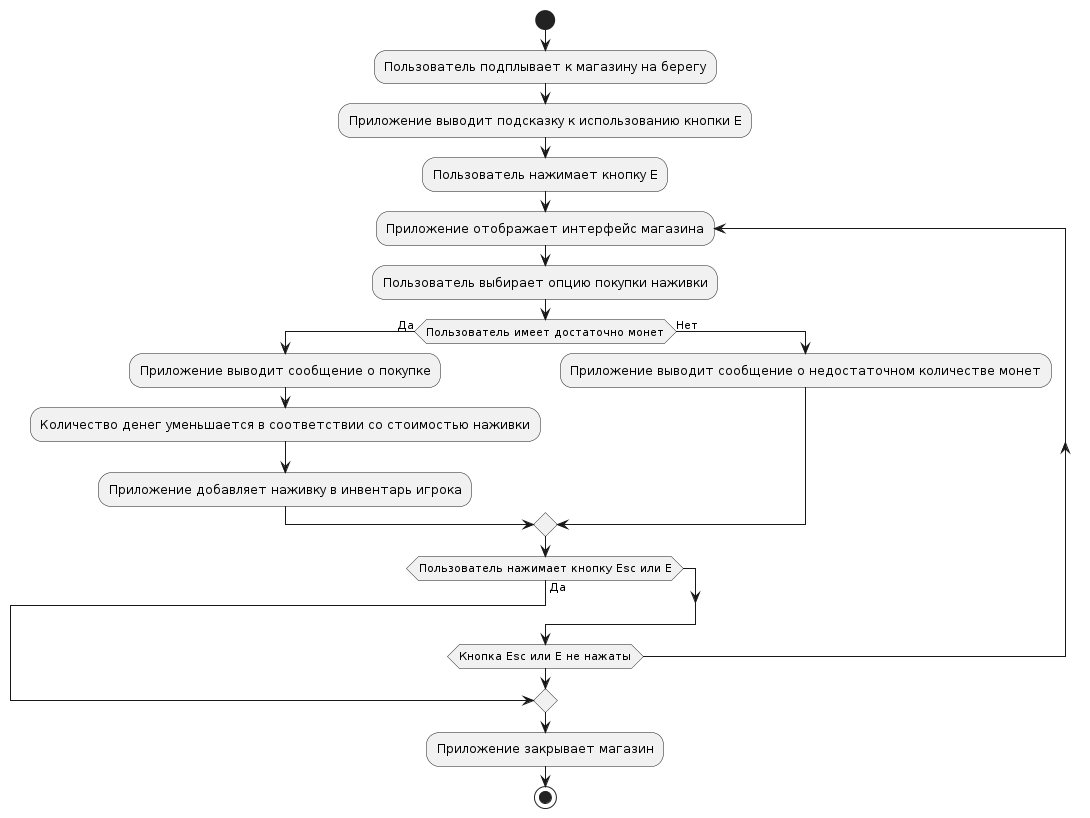
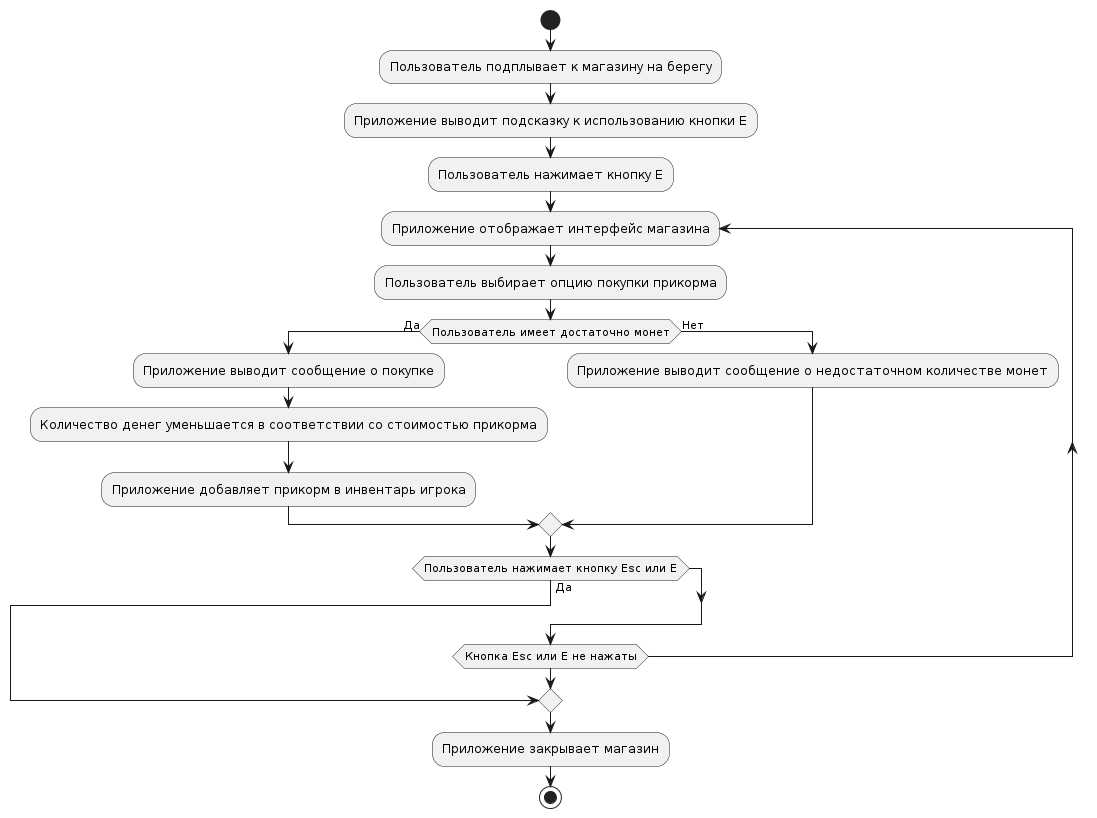
Made 5th task

diff --git a/docs/behavior.md b/docs/behavior.md
@@ -1,0 +1,98 @@
+# Поведенческие модели
+
+### Диаграммы состояний:
+
+#### Миниигра ловли рыбы
+
+* [Оффлайн файл](diagrams/behavior/fishing.puml)
+
+![Диаграмма состояний](diagrams/behavior/fishing.png)
+
+Эта диаграмма состояний представляет собой мини-игру по рыбной ловле в игре. Начальное состояние - "Миниигра ловли рыбы". Пользователь может взаимодействовать с процессом, выполняя определенные действия.
+
+Процесс начинается с состояния "Подплыть к рыбному месту", когда пользователь плывет к месту ловли рыбы. Нажатие кнопки E на клавиатуре приводит к переходу в состояние "Начало рыбалки", где пользователь начинает играть в мини-игру.
+
+В состоянии "Игровой процесс" пользователь ловит рыбу, удерживая левую кнопку мыши (ЛКМ). Если пользователь успешно удерживает ЛКМ в течение определенного времени, он переходит в состояние "Засечка". В состоянии "Засечка" пользователь должен продолжать удерживать ЛКМ, чтобы вытащить рыбу. Если пользователь отпустит ЛКМ раньше, он переходит в состояние "Поражение".
+
+Если пользователь успешно вытаскивает рыбу, он переходит в состояние "Победа". Если пользователь не может поймать рыбу, он переходит в состояние "Поражение".
+
+#### Продажа рыбы
+
+* [Оффлайн файл](diagrams/behavior/sellfish.puml)
+
+![Диаграмма состояний](diagrams/behavior/sellfish.png)
+
+Эта диаграмма состояний представляет собой процесс продажи рыбы в игре. Начальное состояние - "Продажа рыбы". Пользователь может взаимодействовать с процессом через подсказки, выбор рыбы и закрытие магазина.
+
+Процесс начинается с состояния "Вывести подсказку", когда к магазину подплывает пользователь. Нажатие кнопки E на клавиатуре приводит к переходу в состояние "Вывести интерфейс магазина", где пользователь может просмотреть доступные варианты. Выбор опции продажи рыбы приводит к переходу в состояние "Выбор рыбы".
+
+В состоянии "Выбор рыбы" пользователь может выбрать рыбу для продажи. Выбор рыбы приводит к переходу в состояние "Выбрать рыбу". В состоянии "Выбрать рыбу" отображается сообщение о продаже рыбы.
+
+После продажи рыбы пользователь переходит в состояние "Выбор рыбы", чтобы решить, продать ли еще одну рыбу. Если у пользователя больше нет рыбы для продажи, он переходит в состояние "Вывести интерфейс магазина".
+
+Из состояния "Вывести интерфейс магазина" можно также перейти в состояние "Закрыть магазин", нажав кнопку Esc на клавиатуре.
+
+#### Покупка улучшений
+
+* [Оффлайн файл](diagrams/behavior/buyupgrates.puml)
+
+![Диаграмма состояний](diagrams/behavior/buyupgrates.png)
+
+Эта диаграмма состояний представляет собой процесс покупки улучшений в игре. Начальное состояние - "Покупка улучшений". Пользователь может взаимодействовать с процессом через подсказки, выбор улучшений и закрытие магазина.
+
+Процесс начинается с состояния "Вывести подсказку", когда к магазину подплывает пользователь. Нажатие кнопки E на клавиатуре приводит к переходу в состояние "Вывести интерфейс магазина", где пользователь может просмотреть доступные варианты. Выбор опции улучшения приводит к переходу в состояние "Выбор улучшения".
+
+В состоянии "Выбор улучшения" пользователь может выбрать улучшение для лодки или удочки. Выбор опции приводит к переходу в соответствующее состояние, например, "Улучшение лодки" или "Улучшение удочки".
+
+Затем процесс переходит в состояние "Проверка денег", чтобы проверить, достаточно ли у пользователя денег для покупки улучшения. Если денег достаточно, процесс переходит в состояние "Улучшение", где улучшение приобретается и выводится сообщение. Если денег недостаточно, процесс переходит в состояние "Вывести сообщение об ошибке".
+
+Из состояния "Вывести интерфейс магазина" можно также перейти в состояние "Закрыть магазин", нажав кнопку Esc на клавиатуре.
+
+#### Покупка наживки
+
+* [Оффлайн файл](diagrams/behavior/buybait.puml)
+
+![Диаграмма состояний](diagrams/behavior/buybait.png)
+
+Эта диаграмма состояний представляет собой процесс покупки наживки в игре. Начальное состояние - "Покупка наживки". Пользователь может взаимодействовать с процессом через подсказки, покупки и закрытие магазина.
+
+Процесс начинается с состояния "Вывести подсказку", когда к магазину подплывает пользователь. Нажатие кнопки E на клавиатуре приводит к переходу в состояние "Вывести интерфейс магазина", где пользователь может просмотреть доступные варианты. Выбор опции покупки наживки приводит к переходу в состояние "Купить наживку".
+
+В состоянии "Купить наживку" сначала проверяется наличие достаточного количества денег для покупки наживки. Если денег достаточно, наживка покупается, и пользователь переходит в состояние "Вывести сообщение о покупке". Если денег недостаточно, пользователь переходит в состояние "Вывести сообщение об ошибке".
+
+Из состояния "Вывести интерфейс магазина" можно также перейти в состояние "Закрыть магазин", нажав кнопку Esc на клавиатуре.
+
+#### Покупка прикорма
+
+* [Оффлайн файл](diagrams/behavior/buylure.puml)
+
+![Диаграмма состояний](diagrams/behavior/buylure.png)
+
+Эта диаграмма состояний представляет собой процесс покупки прикорма в игре. Начальное состояние - "Покупка прикорма". Пользователь может взаимодействовать с процессом через подсказки, покупки и закрытие магазина.
+
+Процесс начинается с состояния "Вывести подсказку", когда к магазину подплывает пользователь. Нажатие кнопки E на клавиатуре приводит к переходу в состояние "Вывести интерфейс магазина", где пользователь может просмотреть доступные варианты. Выбор опции покупки прикорма приводит к переходу в состояние "Купить прикорм".
+
+В состоянии "Купить прикорм" сначала проверяется наличие достаточного количества денег для покупки прикорма. Если денег достаточно, прикорм покупается, и пользователь переходит в состояние "Вывести сообщение о покупке". Если денег недостаточно, пользователь переходит в состояние "Вывести сообщение об ошибке".
+
+Из состояния "Вывести интерфейс магазина" можно также перейти в состояние "Закрыть магазин", нажав кнопку Esc на клавиатуре.
+
+### Диаграмма последовательности
+
+* [Оффлайн файл](diagrams/behavior/sequence_diagram.puml.puml)
+
+![Диаграмма последовательности](diagrams/behavior/sequence_diagram.png)
+
+1. Пользователь нажимает кнопки WASD для управления лодкой.
+2. Игра перемещает лодку в соответствии с действиями пользователя.
+3. Игра генерирует рыбу в игровом мире.
+4. Пользователь нажимает кнопку E, чтобы открыть меню магазина.
+5. Пользователь покупает наживку в магазине.
+6. Магазин добавляет наживку в инвентарь пользователя.
+7. Пользователь нажимает на рыбу, чтобы забросить удочку.
+8. Игра перемещает крючок удочки в соответствии с действиями пользователя.
+9. Пользователь удерживает левую кнопку мыши (ЛКМ), чтобы удерживать рыбу на крючке.
+10. Игра удерживает рыбу на крючке, пока пользователь удерживает ЛКМ.
+11. После того, как рыба поймана, пользователь может улучшить свою удочку или купить прикорм в магазине.
+12. Пользователь может открыть свой инвентарь, нажав кнопку E.
+
+Диаграмма показывает, как пользователь взаимодействует с игрой, чтобы ловить рыбу, улучшать свою удочку и покупать прикорм.

diff --git a/docs/functions.md b/docs/functions.md
@@ -42,6 +42,7 @@
 - Приложение закрывает магазин.
 
 * [Оффлайн файл](diagrams/functions/sellfish.puml)
+
 ![Диаграмма активности](diagrams/functions/sellfish.png)
 
 ### Покупка улучшений
@@ -55,6 +56,7 @@
 - Приложение выводит сообщение об улучшении.
 
 * [Оффлайн файл](diagrams/functions/buyupgrates.puml)
+
 ![Диаграмма активности](diagrams/functions/buyupgrates.png)
 
 ### Покупка наживки
@@ -68,6 +70,7 @@
 - Приложение добавляет наживку в инвентарь игрока.
 
 * [Оффлайн файл](diagrams/functions/buybait.puml)
+
 ![Диаграмма активности](diagrams/functions/buybait.png)
 
 ### Покупка прикорма
@@ -81,6 +84,7 @@
 - Приложение добавляет прикорм в инвентарь игрока.
 
 * [Оффлайн файл](diagrams/functions/buylure.puml)
+
 ![Диаграмма активности](diagrams/functions/buylure.png)
 
 ### Открытие инвентаря

diff --git a/docs/struct.md b/docs/struct.md
@@ -1,6 +1,7 @@
 # Структурные модели
 ### Описание внутренней структуры приложения
 * [Оффлайн файл](diagrams/struct/class_diagram.puml)
+
 ![Диаграмма классов](diagrams/struct/class_diagram.png)
 
 #### Классы:
@@ -26,6 +27,7 @@
 
 ### Описание используемых структур/объектов данных
 * [Оффлайн файл](diagrams/struct/objects_diagram.puml)
+
 ![Диаграмма классов](diagrams/struct/objects_diagram.png)
 
 #### Объекты:
